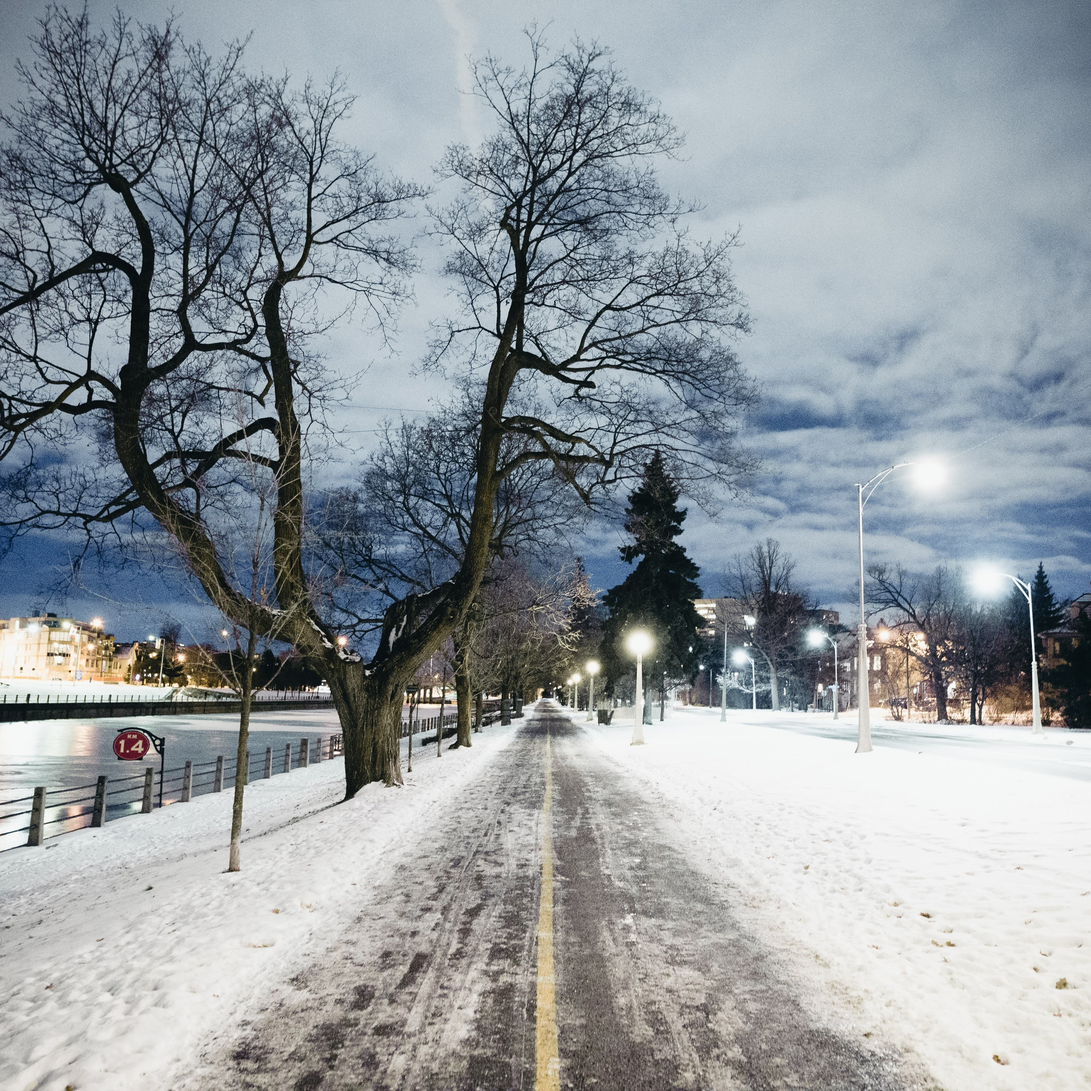
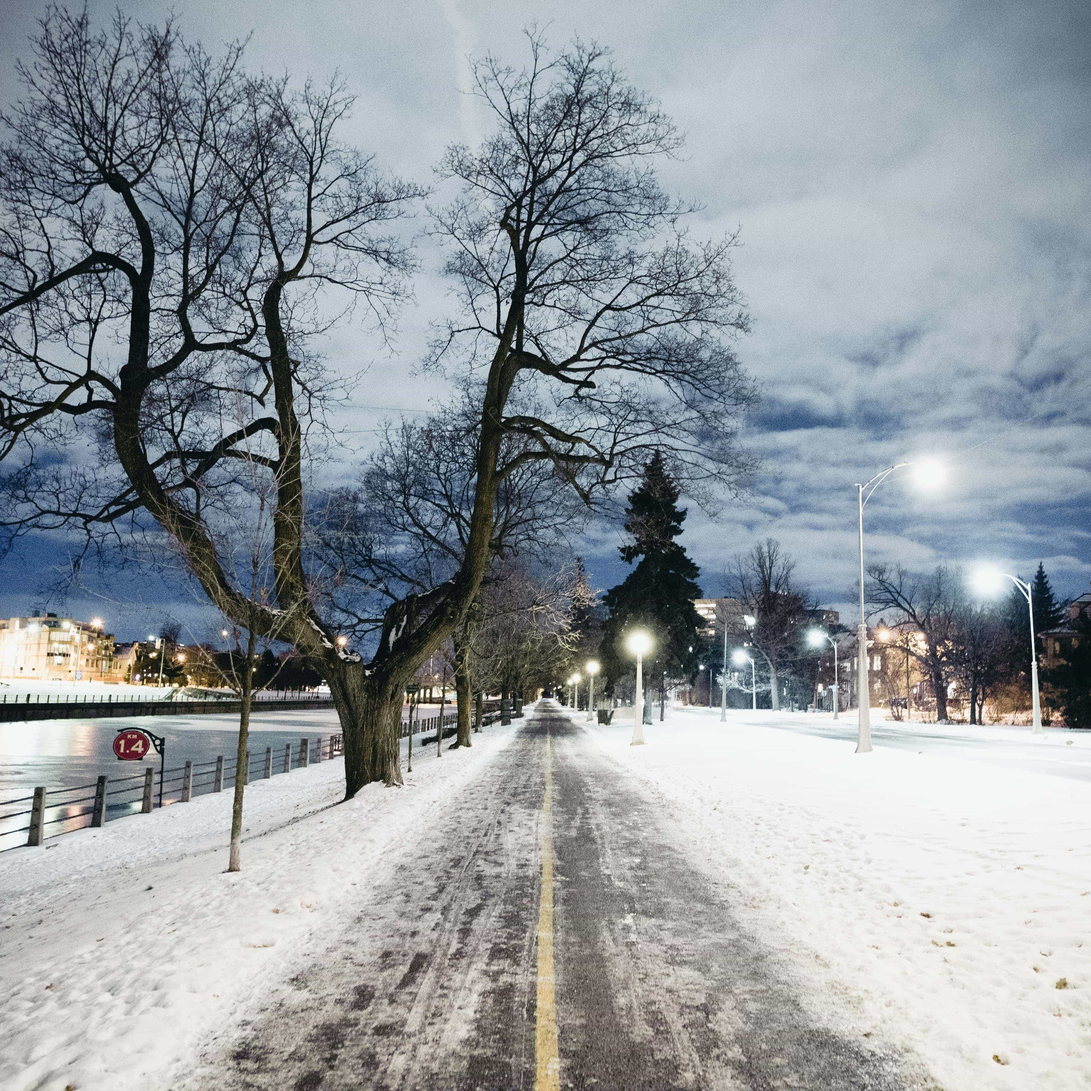
Added store section. External links open in new tab. Smaller images.
Store section items laid out in subgrid in store grid. Social links open in new tabs. Images significantly crunched for better viewing and load times.

diff --git a/html/store.html b/html/store.html
@@ -4,29 +4,27 @@
 		<title>Store — kavanparam</title>
         <link rel="icon" type="image/png" href="../images/cart_emoji.png">
         <link rel="stylesheet" href="../css/styles.css">
-        <link rel="stylesheet" href="../css/store.css">
         <link rel="stylesheet" href="../css/navbar.css">
+        <link rel="stylesheet" href="../css/store.css">
         <script src="https://kit.fontawesome.com/17623fe826.js" crossorigin="anonymous"></script>
 	</head>
 	<body>
 
-        <!-- Unfinished! Be sure to cross-ref with INDEX to make sure elements/classes aren't missing. -->
-        <!-- Consider doing a "diffing" -->
-
 
         <div id="store-grid-container">
+
             <section class="nav-section store-grid-item default-padding">
                 <div class="navfix">
-                    <h1 class="nav-logo"><a href="../index.html">kavanparam.</a></h1>
+                    <div class="nav-logo"><a href="../index.html"><h1>kavanparam.</h1></a></div>
                     <nav>
                         <ul>
                             <li><a href="html/store.html">Store</a></li>
                             <li><a href="about.html">About</a></li>
                             <li><a href=#contact>Contact</a></li>
                             <div class="nav-icons">
-                                <li><a href="#instagram"><i class="fa-brands fa-instagram"></i></a></li> <!--Instagram-->
-                                <li><a href="#github"><i class="fa-brands fa-github"></i></a></li> <!--Github-->
-                                <li><a href="#linkedin"><i class="fa-brands fa-linkedin-in"></i></a></li> <!--LinkedIn-->
+                                <li><a href="https://www.instagram.com/kaavan/" target="_blank"><i class="fa-brands fa-instagram"></i></a></li>
+                                <li><a href="https://github.com/kavanparam" target="_blank"><i class="fa-brands fa-github"></i></a></li>
+                                <li><a href="https://www.linkedin.com/in/kavanparam" target="_blank"><i class="fa-brands fa-linkedin-in"></i></a></li>
                             </div>
                         </ul>
                     </nav>
@@ -34,9 +32,64 @@
             </section>
 
 
-            <div class="store-section store-grid-item default-padding">
-                <h1>Welcome to the store!</h1>
-                <p>My first paragraph.</p>
+            <div id="store-section" class="store-grid-item">
+                <h1>shop</h1>
+                <div class="store-item-grid">
+
+                    <div class="store-item">
+                        <h2>Website Design and Build</h2>
+                        <p>Let's work together as we bring your ideas to life.</p>
+                        <p>$200+ — Please contact</p>
+                    </div>
+
+                    <div class="store-item">
+                        <h2>Personal Photo Session</h2>
+                        <p>$50+</p>
+                    </div>
+
+                    <div class="store-item">
+                        <h2>Photograph a Small Event</h2>
+                        <p>1-2 hours</p>
+                        <p>$100+</p>
+                    </div>
+
+                    <div class="store-item">
+                        <h2>Website Design Only</h2>
+                        <p>$50</p>
+                    </div>
+
+                    <div class="store-item">
+                        <h2>Photograph a Large Event</h2>
+                        <p>Additional photographer. 3 hours+. Professional equipment</p>
+                        <p>$500+</p>
+                    </div>
+
+                    <div class="store-item">
+                        <h2>Same Day Turnaround</h2>
+                        <p>Available as an add-on for photography services. Photos will 
+                            be delivered within 48 hours.</p>
+                        <p>$25+ (depending on # of photos)</p>
+                    </div>
+
+                    <div class="store-item">
+                        <h2>Full Brand Design</h2>
+                        <p>Let's design your brand presence from the ground up. Comprehensive 
+                            service including product photography, and website.
+                        </p>
+                        <p>$1000+</p>
+                    </div>
+
+                    <div class="store-item">
+                        <h2></h2></div>
+                    <div class="store-item">
+                        <h2>Photo Editing</h2>
+                        <p>Touch ups & corrections. Get your photos social media ready.
+                            Included in photo sessions at no cost.
+                        </p>
+                        <p>$20+</p>
+                    </div>
+
+                </div>
             </div>
 
         </div>

diff --git a/index.html b/index.html
@@ -2,12 +2,12 @@
 <html lang="en-CA">
 	<head>
 		<title>kavanparam</title>
-        <link rel="icon" type="image/png" href="images/code_emoji.png">
+        <link rel="icon" type="image/png" href="images/wave_emoji.png">
         <link rel="stylesheet" href="css/styles.css">
-        <link rel="stylesheet" href="css/main.css">
         <link rel="stylesheet" href="css/navbar.css">
-        <link rel="stylesheet" href="css/photo-portfolio.css"> <!--On main page for time being until separate software/photography portions are built-->
-        <link rel="stylesheet" href="css/software-portfolio.css"> <!--On main page for time being until separate software/photography portions are built-->
+        <link rel="stylesheet" href="css/main.css">
+        <link rel="stylesheet" href="css/photo-portfolio.css"> <!--On main page until separate software/photography portions are built-->
+        <link rel="stylesheet" href="css/software-portfolio.css"> 
         <script src="https://kit.fontawesome.com/17623fe826.js" crossorigin="anonymous"></script> <!--FontAwesome webkit-->
 	</head>
 	<body>
@@ -16,26 +16,26 @@
         </header> -->
 
         <div id="main-grid-container">
-            <section class="nav-section main-grid-item default-padding">
+
+            <section class="nav-section main-grid-item">
                 <div class="navfix">
-                    <h1 class="nav-logo"><a href="index.html">kavanparam.</a></h1>
+                    <div class="nav-logo"><a href="index.html"><h1>kavanparam.</h1></a></div>
                     <nav>
                         <ul>
                             <li><a href="html/store.html">Store</a></li>
                             <li><a href="html/about.html">About</a></li>
                             <li><a href=#contact>Contact</a></li>
-                            <div class="nav-icons"> <!--Put this in a flexbox-->
-                                <li><a href="https://www.instagram.com/kaavan/"><i class="fa-brands fa-instagram"></i></a></li> <!--Instagram-->
-                                <li><a href="https://github.com/kavanparam"><i class="fa-brands fa-github"></i></a></li> <!--Github-->
-                                <li><a href="https://www.linkedin.com/in/kavanparam"><i class="fa-brands fa-linkedin-in"></i></a></li> <!--LinkedIn-->
+                            <div class="nav-icons">
+                                <li><a href="https://www.instagram.com/kaavan/" target="_blank"><i class="fa-brands fa-instagram"></i></a></li>
+                                <li><a href="https://github.com/kavanparam" target="_blank"><i class="fa-brands fa-github"></i></a></li>
+                                <li><a href="https://www.linkedin.com/in/kavanparam" target="_blank"><i class="fa-brands fa-linkedin-in"></i></a></li>
                             </div>
                         </ul>
                     </nav>
                 </div>
             </section>
 
-            <section class="photo-portfolio-section main-grid-item default-padding">
-                <!-- Main portfolio content goes here -->
+            <section id="photo-portfolio-section" class="main-grid-item">
                 <h1>photography</h1>
                 <div class="photo-grid-item">
                     <!-- Landscapes -->
@@ -61,11 +61,11 @@
                 </div>
             </section>
 
-            <section class="software-portfolio-section main-grid-item default-padding">
+            <section class="software-portfolio-section main-grid-item">
                 <h1>software</h1>
-                <div>4</div>
-                <div>5</div>
-                <div>6</div>
+                <div class="software-grid-item">4</div>
+                <div class="software-grid-item">5</div>
+                <div class="software-grid-item">6</div>
             </section>
 
         </div>

diff --git a/css/store.css b/css/store.css
@@ -1,17 +1,53 @@
 #store-grid-container{
+    padding-right: 60px;
     display: grid;
-    grid-template-columns: 1fr 3fr;
-    /* grid-gap: 15px; */
+    grid-template-columns: 1fr 4fr;
 }
 
-.store-grid-item{
+/* .store-grid-item{
     background-color: whitesmoke;
-}
+} */
 
-.main-grid-item:nth-child(1) {
+/* Doesn't affect navbar, already centered? */
+/* .store-grid-item:nth-child(1) {
     justify-self: center;
+} */
+
+#store-section{
+    grid-column-start: 2;
+    
+    display: grid;
+    grid-template-rows: 55px auto;
+    row-gap: 15px;
 }
 
-.store-section{
-    padding-bottom: 2000px;
+/* Store h1 isn't the same size as photography and isn't aligning with navbar.
+default-padding might be the reason why */
+#store-section h1{
+    /* background-color: red; */
+}
+
+.store-item-grid{
+    display: grid;
+    grid-template-columns: 1fr 1fr 1fr;
+    grid-template-rows: 1fr 1fr 1fr;
+    gap: 8px;
+}
+
+.store-item{
+    padding: 50px;
+    background-color: brown;
+}
+
+.store-item h2{
+    font-weight: 600;
+    font-size: large;
+    color: whitesmoke;
+    text-align: center;
+    padding-bottom: 10px;
+    /* text-align: center; */
+}
+
+.store-item p{
+    color: whitesmoke;
 }

diff --git a/css/main.css b/css/main.css
@@ -2,16 +2,18 @@
     padding-right: 60px;
     display: grid;
     grid-template-columns: 1fr 4fr;
-    /* background-color: bisque; */
 
     /* Contains photo & software portfolio */
-    grid-template-rows: 1fr 1fr;
+    /* grid-template-rows: 1fr 1fr; */
 }
 
-.main-grid-item{
-    /* background-color: whitesmoke; */
-}
+/* .main-grid-item{
+    background-color: whitesmoke;
+} */
 
-.main-grid-item:nth-child(1) {
+/*Why doesn't an ID work here? Is any other syntax possible?*/
+/* Not required after navbar removed from grid with position: fixed */
+/* .main-grid-item:nth-child(1){
     justify-self: center;
-} /*Why doesn't an ID work here? Is any other syntax possible?*/
+}  */
+

diff --git a/css/photo-portfolio.css b/css/photo-portfolio.css
@@ -1,16 +1,8 @@
-.photo-portfolio-section{
-    grid-row-start: 1;
-    grid-column-start: 2;
-
-    /* Subgrid containing portfolio heading and its content */
+#photo-portfolio-section{
+    /* Subgrid containing portfolio heading and content */
     display: grid;
-    grid-template-rows: 60px repeat(3, auto);
+    grid-template-rows: 55px repeat(3, auto);
     row-gap: 5px;
-}
-
-.photo-portfolio-section h1{
-    font-weight: 200;
-    color: grey;
 }
 
 .photo-grid-item{

diff --git a/css/navbar.css b/css/navbar.css
@@ -21,7 +21,14 @@
     left: 60px;
 }
 
+.nav-logo h1{
+    color: #FF9100;
+    font-weight: 600;
+}
 
+.nav-logo > a{
+    text-decoration: none;
+}
 
 .nav-section ul{
     margin: 0;
@@ -47,11 +54,8 @@ nav a:hover{
 .nav-icons{
     display: flex;
     justify-content: space-between;
-    padding-right: 60px;
+    padding-right: 70px;
     /*Can you add padding between flex children?*/
 } 
 
-.nav-logo > a{
-    text-decoration: none;
-    color: #FF9100;
-}
+

diff --git a/css/software-portfolio.css b/css/software-portfolio.css
@@ -3,16 +3,15 @@
     grid-column-start: 2;
 
     display: grid;
-    grid-template-rows: 60px repeat(3, 4fr);
-    row-gap: 15px;
+    grid-template-rows: 55px repeat(3, auto);
+    row-gap: 5px;
 }
 
 .software-portfolio-section div{
-    padding: 125px;
-    border: 2px solid red;
+    padding: 150px;
+    background-color: brown;
 }
 
-.software-portfolio-section h1{
-    font-weight: 200;
-    color: grey;
+.software-grid-item{
+
 }

diff --git a/css/styles.css b/css/styles.css
@@ -11,3 +11,8 @@ body{
     /*Padding removed in body, and reinserted as necessary*/
     padding: 8px;
 }
+
+h1{
+    font-weight: 200;
+    color: grey;
+}
